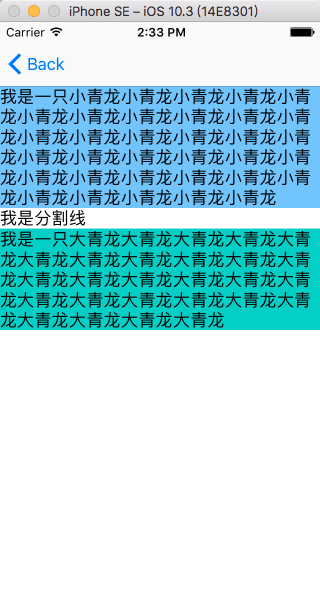
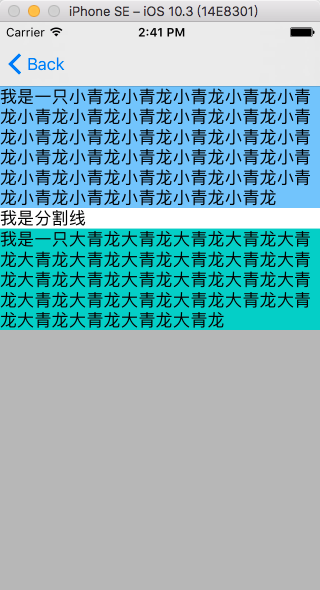
feat : 整理

diff --git a/_posts/study/2016/2016-06-22-iOS自动布局使用说明书.md b/_posts/study/2016/2016-06-22-iOS自动布局使用说明书.md
@@ -67,7 +67,7 @@ B的 宽度： A的宽度
 
 ![一个工程下面的.git](https://xilankong.github.io/resource/scrollviewaddLabel.png)
 
-6、运行起来，如下效果：（contentView背景色为橙色）
+6、运行起来，如下效果：（contentView背景色为橙色，self.view背景色为灰色）
 
 ![一个工程下面的.git](https://xilankong.github.io/resource/scrollShow.png)
 
